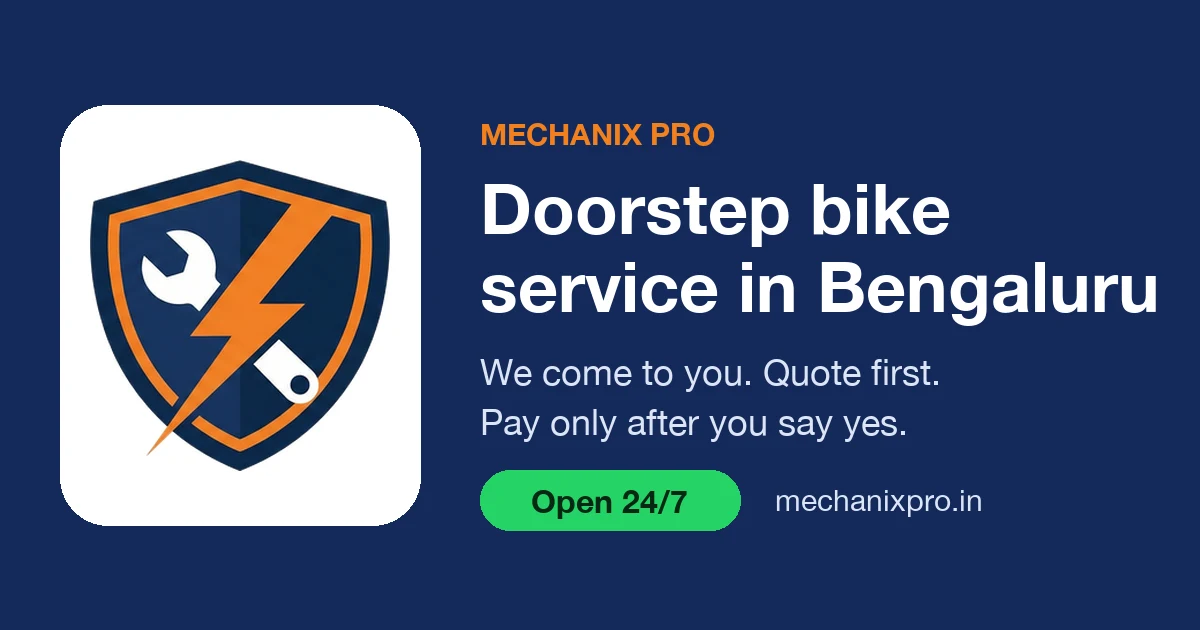
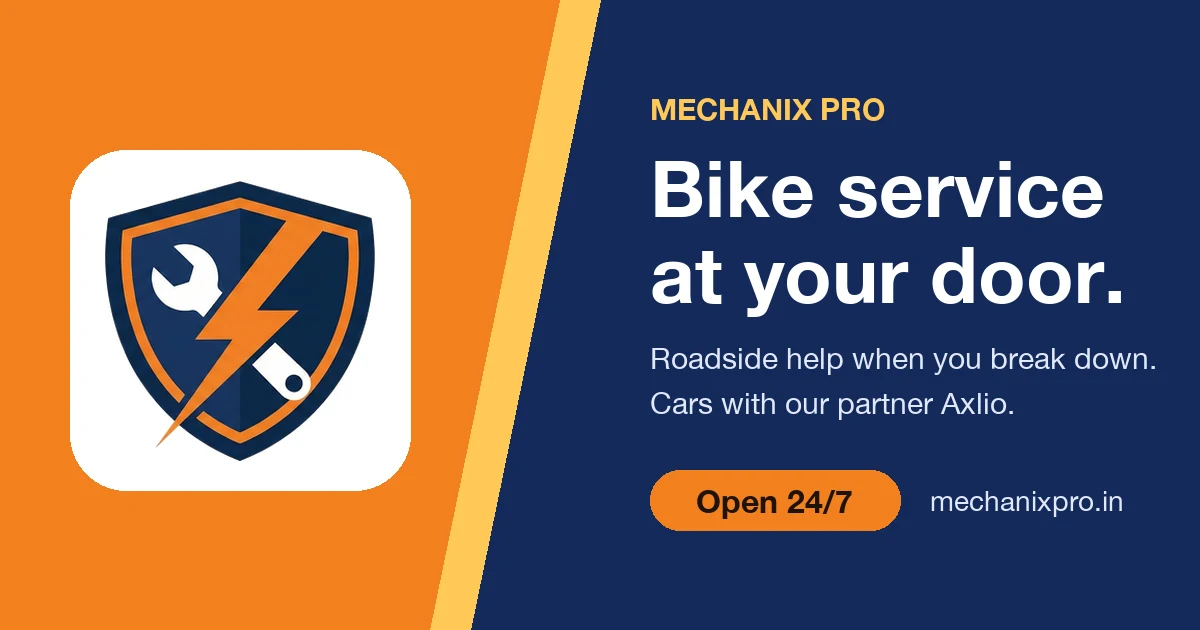
Bold and energetic theme, new share card, email accent bars, presence kit

diff --git a/assets/css/style.css b/assets/css/style.css
@@ -872,3 +872,28 @@ h1,h2,h3{font-weight:650;letter-spacing:-.032em}
 .rsa-list{display:flex;flex-wrap:wrap;gap:10px;margin:18px 0 0;padding:0;list-style:none}.rsa-list li{padding:9px 16px;border-radius:999px;background:#fff;border:1px solid rgba(20,41,90,.12);font-weight:600;font-size:15px}
 .rsa-car{margin:16px 0 0;padding:16px 20px;border-radius:18px;background:rgba(242,128,31,.1);color:var(--ink,#1d1d1f)}.rsa-car a{font-weight:650}
 @media(max-width:820px){.rsa-in{grid-template-columns:1fr}}
+/* ===== Bold and energetic theme (2026-10-23): ember blocks, big heavy type, a moving ticker. Logo and navy stay. ===== */
+:root{--ember-hot:#FF8A1F}
+h1,h2,h3{font-weight:800;letter-spacing:-.038em}
+h1{font-size:clamp(40px,7.4vw,84px);line-height:1}
+.sec-head h2{font-size:clamp(32px,5vw,54px);line-height:1.04;position:relative;padding-top:18px}
+.sec-head h2::before{content:"";position:absolute;left:0;top:0;width:56px;height:7px;border-radius:4px;background:var(--ember)}
+.sec-head p{font-size:clamp(17px,2vw,20px)}
+.nav{border-bottom:3px solid var(--ember)}
+.hero{background:radial-gradient(900px 520px at 88% -8%,rgba(255,138,31,.55),transparent 62%),radial-gradient(600px 400px at -5% 110%,rgba(242,128,31,.22),transparent 60%),linear-gradient(160deg,#0A1020 0%,#14295A 130%)}
+.hero h1{text-shadow:0 2px 30px rgba(0,0,0,.25)}
+.btn{font-weight:750}
+.btn-primary{background:linear-gradient(180deg,#FF9A3C,#F2801F);box-shadow:0 10px 26px rgba(242,128,31,.42)}.btn-primary:hover{background:linear-gradient(180deg,#FFA855,#F58F35);transform:translateY(-1px)}
+.btn{transition:transform .15s,box-shadow .15s,background .15s}.btn:active{transform:scale(.98)}
+.strip li{background:#fff;border-radius:16px;border-top:0;border-left:5px solid var(--ember);padding:14px 16px;box-shadow:0 6px 20px rgba(20,41,90,.07)}
+.band{background:linear-gradient(180deg,#FFF3E6,#FFFFFF);border-block:0}
+.final{background:linear-gradient(140deg,#F2801F,#D9600A)!important;color:#fff}.final h2,.final p{color:#fff}
+.final .btn-primary{background:#14295A;color:#fff;box-shadow:0 10px 26px rgba(20,41,90,.4)}.final .btn-ghost{color:#fff;box-shadow:inset 0 0 0 2px rgba(255,255,255,.7)}.final .btn-ghost:hover{background:rgba(255,255,255,.14)}
+.pricing li.pop,.price-cards li.pop{border-color:var(--ember);box-shadow:0 14px 40px rgba(242,128,31,.25)}
+.ticker{overflow:hidden;background:var(--ember);color:#1F1206;border-block:3px solid #14295A;transform:rotate(-.5deg);margin:-14px 0 18px;position:relative;z-index:2}
+.tk-track{display:flex;gap:0;white-space:nowrap;width:max-content;animation:tk 38s linear infinite}
+.tk-track span{padding:12px 26px;font-weight:800;font-size:15px;letter-spacing:.06em;text-transform:uppercase}.tk-track span::after{content:"\2726";margin-left:26px;color:#14295A}
+@keyframes tk{to{transform:translateX(-50%)}}
+@media(prefers-reduced-motion:reduce){.tk-track{animation:none}.btn,.btn:active{transition:none;transform:none}.ticker{transform:none}}
+@media(max-width:640px){.sec-head h2{font-size:clamp(28px,8vw,36px)}.tk-track span{padding:10px 18px;font-size:13px}}
+body{overflow-x:clip}

diff --git a/supabase/functions/_shared/email-templates.ts b/supabase/functions/_shared/email-templates.ts
@@ -30,9 +30,10 @@ function layout(o: { preheader: string; title: string; body: string; site: Site;
 <div style="display:none;max-height:0;overflow:hidden;opacity:0;color:transparent;mso-hide:all">${escapeHtml(o.preheader)}</div>
 <table role="presentation" width="100%" cellpadding="0" cellspacing="0" border="0" style="background:${PAGE}"><tr><td align="center" style="padding:24px 12px">
 <table role="presentation" width="600" cellpadding="0" cellspacing="0" border="0" style="width:100%;max-width:600px;background:#ffffff;border-radius:20px;overflow:hidden">
-<tr><td bgcolor="#ffffff" style="padding:22px 32px;border-bottom:4px solid ${EMBER}"><table role="presentation" cellpadding="0" cellspacing="0" border="0"><tr><td style="vertical-align:middle"><img src="${escapeHtml(site.siteUrl)}/assets/img/email-logo.png" width="40" height="42" alt="Mechanix Pro" style="display:block;border:0"></td><td style="padding-left:12px;vertical-align:middle"><img src="${escapeHtml(site.siteUrl)}/assets/img/email-wordmark.png" width="170" height="15" alt="MECHANIX PRO" style="display:block;border:0"></td></tr></table></td></tr>
+<tr><td bgcolor="#ffffff" style="padding:22px 32px;border-bottom:6px solid ${EMBER}"><table role="presentation" cellpadding="0" cellspacing="0" border="0"><tr><td style="vertical-align:middle"><img src="${escapeHtml(site.siteUrl)}/assets/img/email-logo.png" width="40" height="42" alt="Mechanix Pro" style="display:block;border:0"></td><td style="padding-left:12px;vertical-align:middle"><img src="${escapeHtml(site.siteUrl)}/assets/img/email-wordmark.png" width="170" height="15" alt="MECHANIX PRO" style="display:block;border:0"></td></tr></table></td></tr>
 <tr><td style="padding:32px">${o.body}</td></tr>
 <tr><td style="padding:20px 32px 28px;border-top:1px solid ${LINE};background:#FAFBFD"><p style="margin:0 0 6px;font:13px/1.5 ${FONT};color:${MUTED}">Mechanix Pro · Doorstep bike service, Bengaluru</p><p style="margin:0 0 6px;font:12px/1.5 ${FONT};color:${MUTED}">${escapeHtml(companyLine())} · GSTIN ${escapeHtml(COMPANY.gstin)}</p><p style="margin:0;font:13px/1.5 ${FONT};color:${MUTED}">${contact}</p>${o.footerNote ? `<p style="margin:12px 0 0;font:12px/1.5 ${FONT};color:${MUTED}">${o.footerNote}</p>` : ''}</td></tr>
+<tr><td height="8" bgcolor="${NAVY}" style="height:8px;font-size:0;line-height:0;border-top:3px solid ${EMBER}">&nbsp;</td></tr>
 </table></td></tr></table></body></html>`;
 }
 // The customer's own build, shown back to them: their bike's name, the package and the price. Edit link opens the booking form with it filled in.

diff --git a/src/home.html b/src/home.html
@@ -35,6 +35,7 @@
     <figure class="hero-photo"><img src="/assets/img/photos/oil-change-900.webp" width="900" height="600" decoding="async" fetchpriority="low" alt="Mechanic pouring engine oil into a scooter through a funnel at the customer's doorstep"><div class="hp-badges"><span>Mechanix Pro certified mechanics</span><span>OEM-certified parts</span></div></figure>
   </div>
 </section>
+<div class="ticker" aria-hidden="true"><div class="tk-track"><span>Open 24/7</span><span>Quote first</span><span>Doorstep bike service</span><span>Roadside help</span><span>OEM-certified parts</span><span>{{days}}-day warranty</span><span>Open 24/7</span><span>Quote first</span><span>Doorstep bike service</span><span>Roadside help</span><span>OEM-certified parts</span><span>{{days}}-day warranty</span></div></div>
 <section class="strip" aria-label="Our promises">
   <div class="wrap"><ul>
     <li><span class="ico" style="width:auto;height:auto;background:none;margin:0"><svg viewBox="0 0 24 24"><path d="M6 4h12v16l-3-2-3 2-3-2-3 2z"/><path d="M9 9h6M9 13h4"/></svg></span>Quote first, work after your OK</li>

diff --git a/index.html b/index.html
@@ -76,6 +76,7 @@
     <figure class="hero-photo"><img src="/assets/img/photos/oil-change-900.webp" width="900" height="600" decoding="async" fetchpriority="low" alt="Mechanic pouring engine oil into a scooter through a funnel at the customer's doorstep"><div class="hp-badges"><span>Mechanix Pro certified mechanics</span><span>OEM-certified parts</span></div></figure>
   </div>
 </section>
+<div class="ticker" aria-hidden="true"><div class="tk-track"><span>Open 24/7</span><span>Quote first</span><span>Doorstep bike service</span><span>Roadside help</span><span>OEM-certified parts</span><span>30-day warranty</span><span>Open 24/7</span><span>Quote first</span><span>Doorstep bike service</span><span>Roadside help</span><span>OEM-certified parts</span><span>30-day warranty</span></div></div>
 <section class="strip" aria-label="Our promises">
   <div class="wrap"><ul>
     <li><span class="ico" style="width:auto;height:auto;background:none;margin:0"><svg viewBox="0 0 24 24"><path d="M6 4h12v16l-3-2-3 2-3-2-3 2z"/><path d="M9 9h6M9 13h4"/></svg></span>Quote first, work after your OK</li>

diff --git a/docs/PRESENCE.md b/docs/PRESENCE.md
@@ -1,0 +1,36 @@
+# Mechanix Pro presence kit (bold theme, 2026-10-23)
+
+Brand: navy #14295A, ember #F2801F, the shield logo as supplied. Tone: direct, calm, no made-up numbers. Allowed claims: 10,000+ services done, 1,300+ gated communities trust us, open 24/7, quote first, 30-day service warranty, OEM-certified parts.
+Cars: always "with our partner Axlio". Mechanix Pro itself services bikes and scooters.
+
+## Instagram (@themechanixpro)
+**Name:** Mechanix Pro | Bike service at your door
+**Bio (max 150):**
+Bike service at your door, Bengaluru 🛠
+Roadside help 24/7 · Quote first
+Cars with partner Axlio 👇
+**Link:** https://mechanixpro.in
+**Category:** Automotive Repair Shop
+**Highlights (cover: ember background, white shield):** Services · Roadside · How it works · Prices · Reviews · Join us
+**Pinned posts (3):** (1) "What happens at your doorstep" carousel, (2) "Broken down? Send your location" reel, (3) Diwali-ready check (no discount unless one is live).
+
+## Google Business Profile
+**Name:** Mechanix Pro
+**Primary category:** Motorcycle repair shop. **Additional:** Motorcycle mechanic, Roadside assistance service, Scooter repair shop.
+**Service area:** Bengaluru (all PIN codes 560001 to 560110). Hide the address if it is not a walk-in shop.
+**Hours:** Open 24 hours, all days.
+**Phone:** +91 83106 21498. **Website:** https://mechanixpro.in. **Booking link:** https://mechanixpro.in/book/
+**Description (under 750):**
+Mechanix Pro is a doorstep bike and scooter service in Bengaluru. A Mechanix Pro-certified mechanic comes to your home or office, sends a quote on WhatsApp first, and starts only after you say yes. Basic, General and Full service, repairs and problem checks, washes and add-ons, and roadside help when your bike breaks down or gets a puncture. OEM-certified parts are fitted only after your approval, with a 30-day service warranty on our work. We are open 24/7. For cars and spare parts, our partner Axlio is at axlio.in.
+**Services to add (name and price from the Prices tab):** Basic service, General service, Full service, Repair or problem check, Roadside emergency visit, Foam wash, Chain clean and lube, Brake tuning, Tyre and puncture check, Battery health test.
+**Photos to add (real ones only):** mechanic at a doorstep, parts being shown to a customer, the van or tool kit, a finished bike. No stock photos.
+**Posts:** one a week, same copy as Instagram. **Reviews:** reply to every review in one or two sentences, by name.
+
+## WhatsApp Business (+91 80423 03061)
+Already set: logo, description, 24/7 hours, canned replies. Next: add cars with partner Axlio to the description only if you want it there.
+
+## Share cards
+`assets/img/og.png` (1200x630) is the link card for the site and all pages. For a campaign, copy it and change the two grey lines only.
+
+## Email and invoices
+Emails keep the white header with the logo, now with a thicker ember bar on top and a navy and ember closing bar at the bottom. Payment and rating pages use the same site theme.
